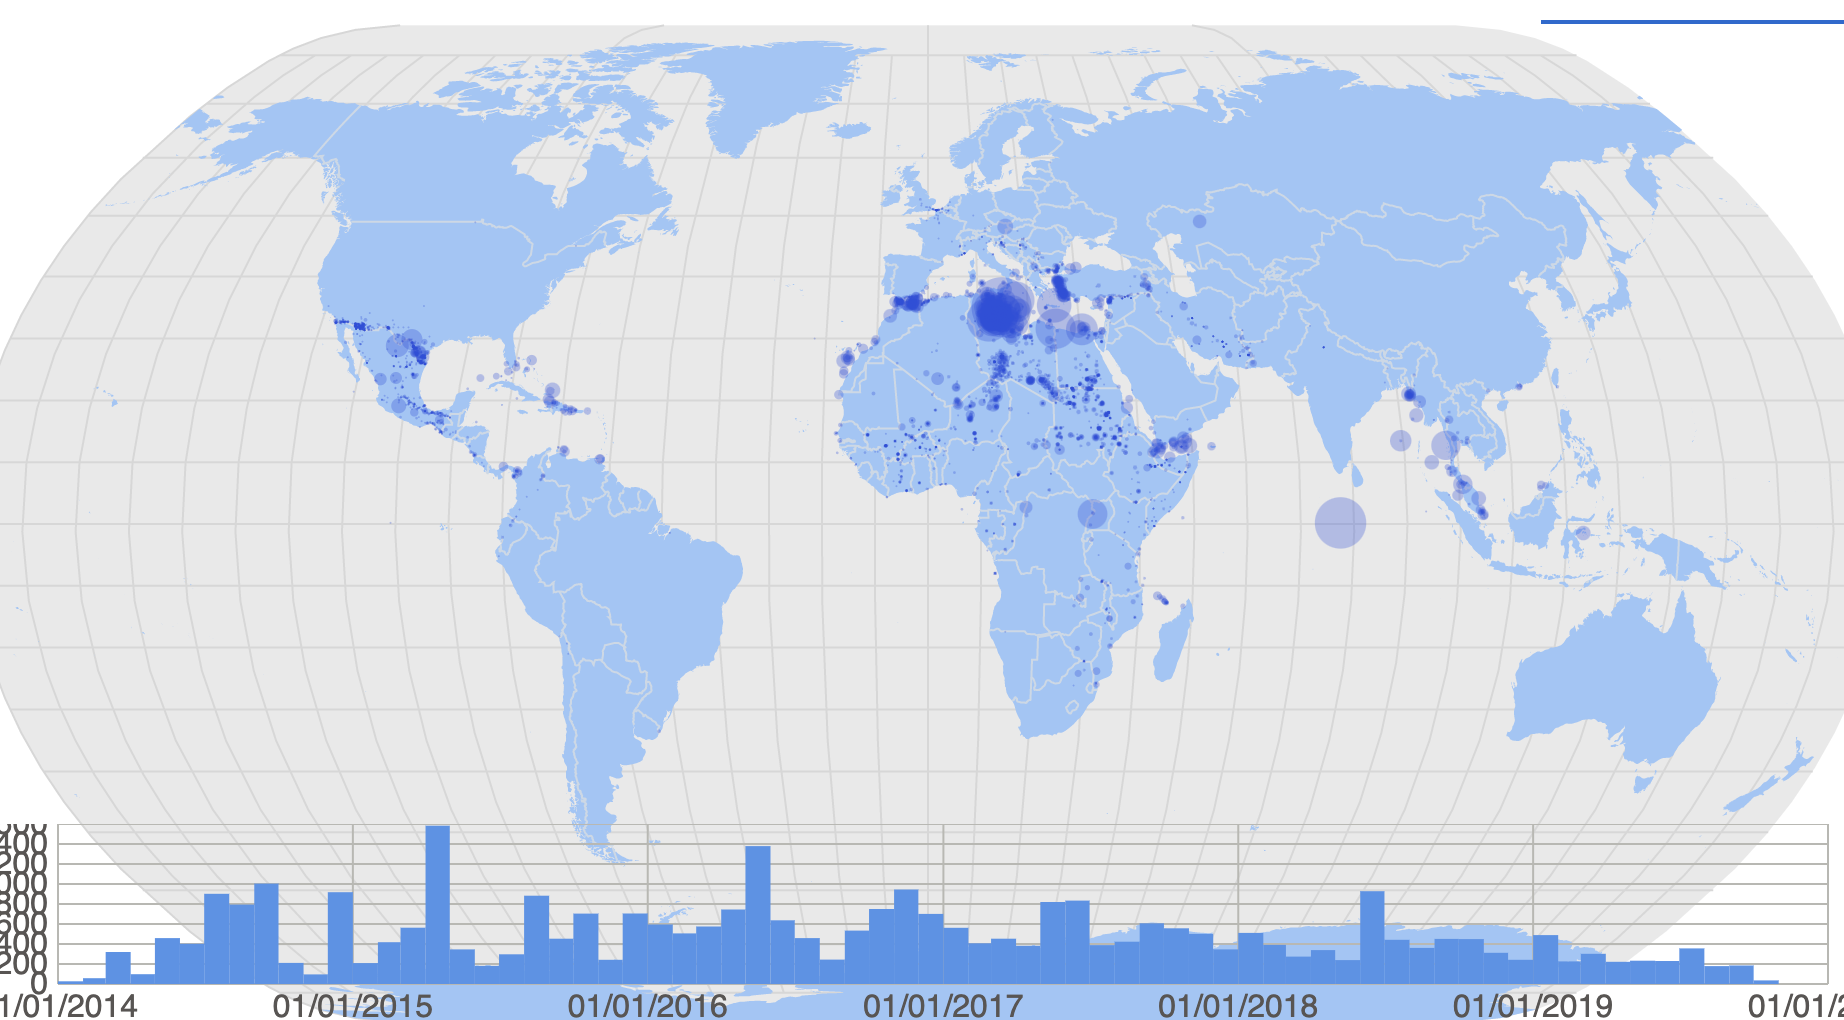
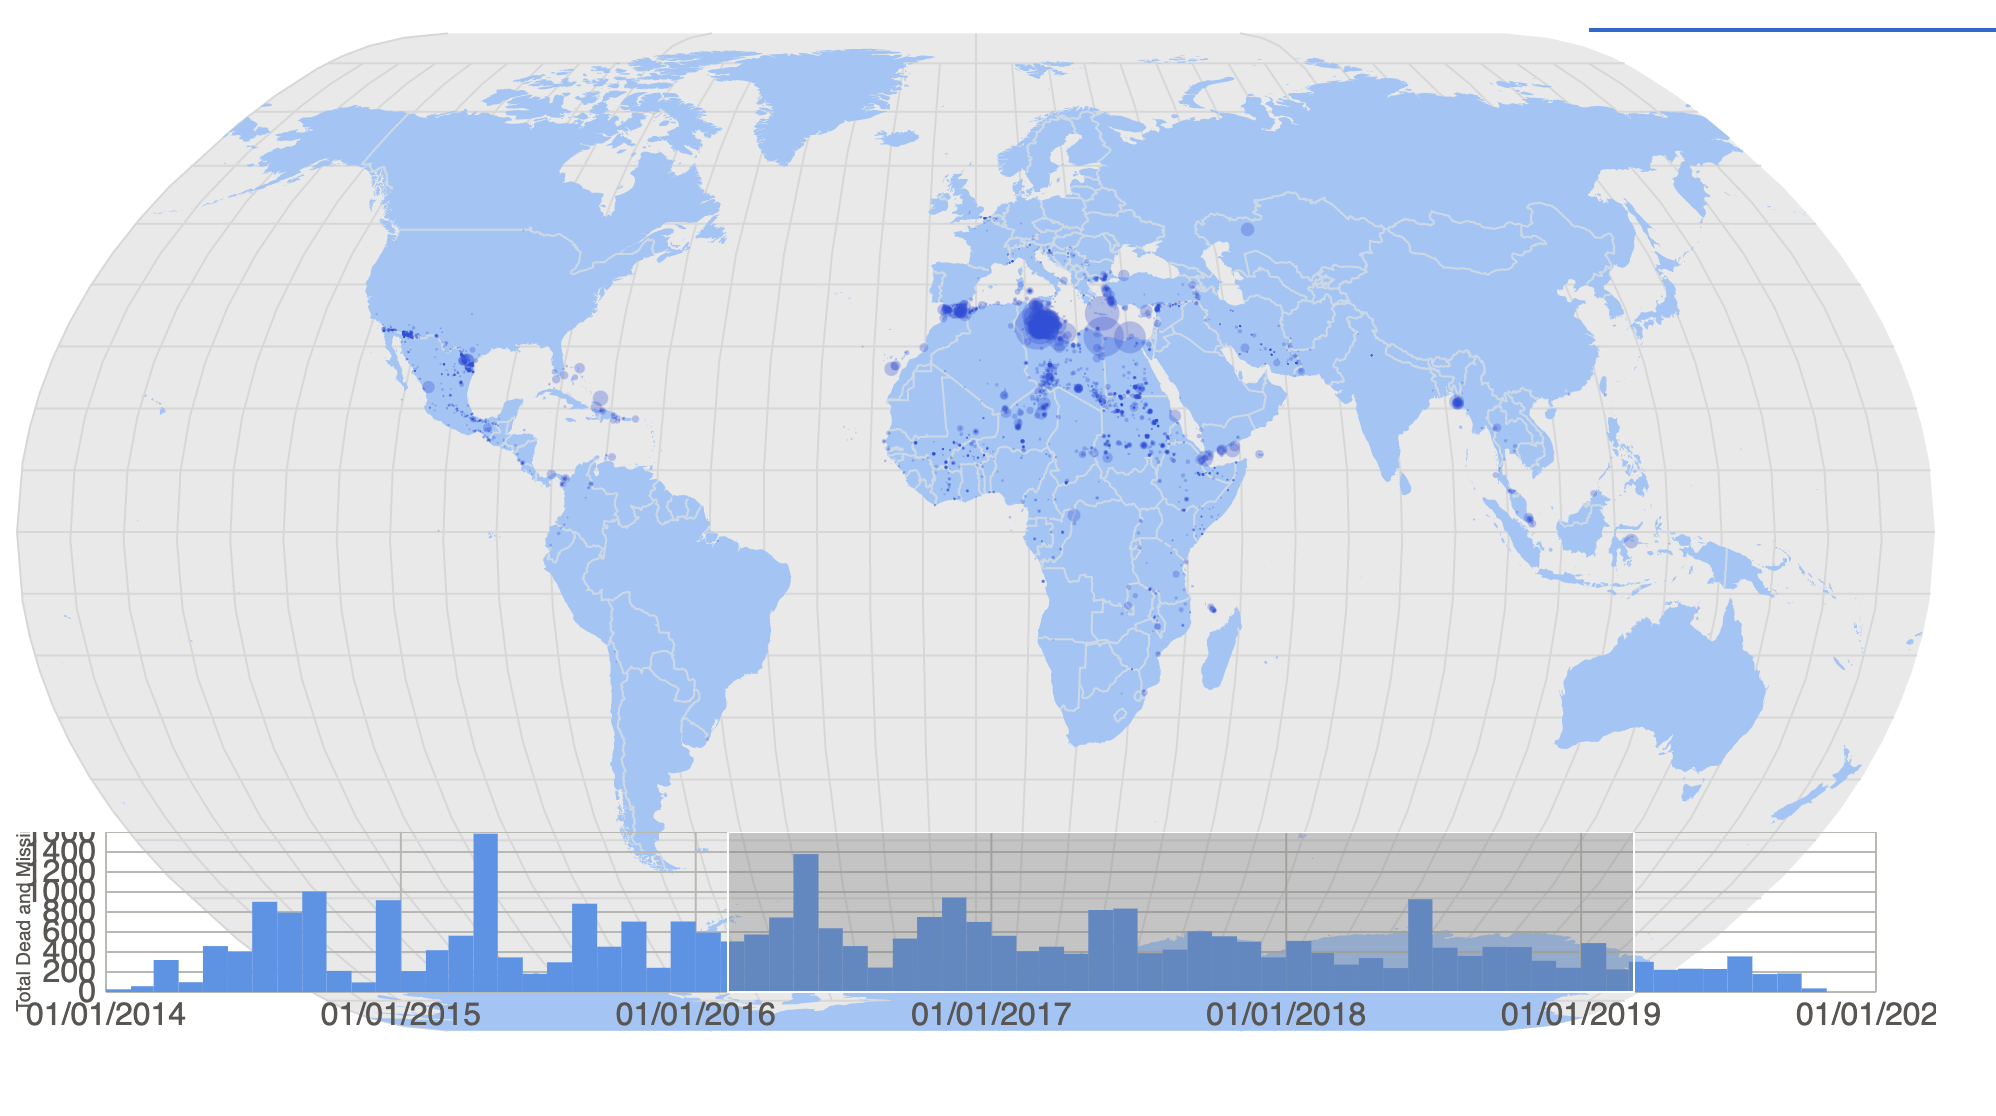
style: style y label & update screenshot for migrants chart

diff --git a/src/components/CSVDataVisualization/VisualizationScatterPlotD3.tsx b/src/components/CSVDataVisualization/VisualizationScatterPlotD3.tsx
@@ -18,7 +18,7 @@ import { MarksForMigrants } from '../../util/MarksForMigrants';
 
 const margin = { top: 0, right: 30, bottom: 20, left: 45 };
 const xAxisLabelOffset = 54;
-const yAxisLabelOffset = 30;
+const yAxisLabelOffset = 38;
 
 interface VisualizationScatterPlotD3Props {
   data: any;
@@ -99,7 +99,7 @@ const VisualizationScatterPlotD3 = ({
           tickOffset={5}
         />
         <text
-          className="axis-label"
+          className="axis-label-sm"
           textAnchor="middle"
           transform={`translate(${-yAxisLabelOffset},${
             innerHeight / 2
@@ -113,7 +113,7 @@ const VisualizationScatterPlotD3 = ({
           tickOffset={5}
         />
         <text
-          className="axis-label"
+          className="axis-label-sm"
           x={innerWidth / 2}
           y={innerHeight + xAxisLabelOffset}
           textAnchor="middle"

diff --git a/src/index.css b/src/index.css
@@ -51,6 +51,11 @@ pre {
   fill: #635f5d;
 }
 
+.axis-label-sm {
+  font-size: 0.60em;
+  fill: #635f5d;
+}
+
 label,
 select {
   font-size: 1.5em;
